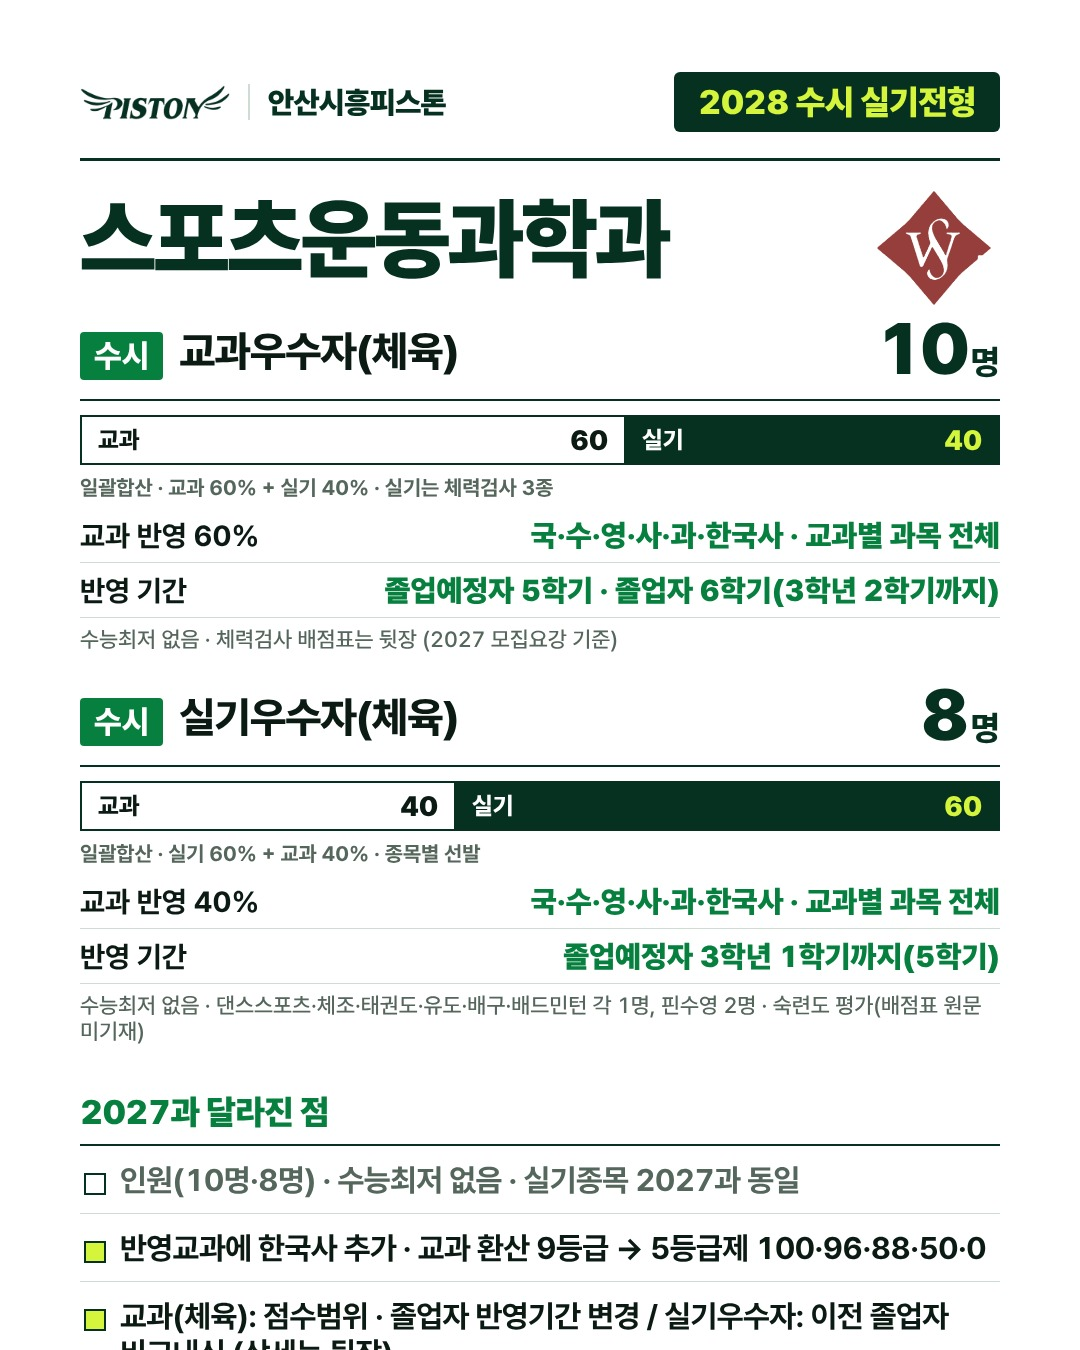
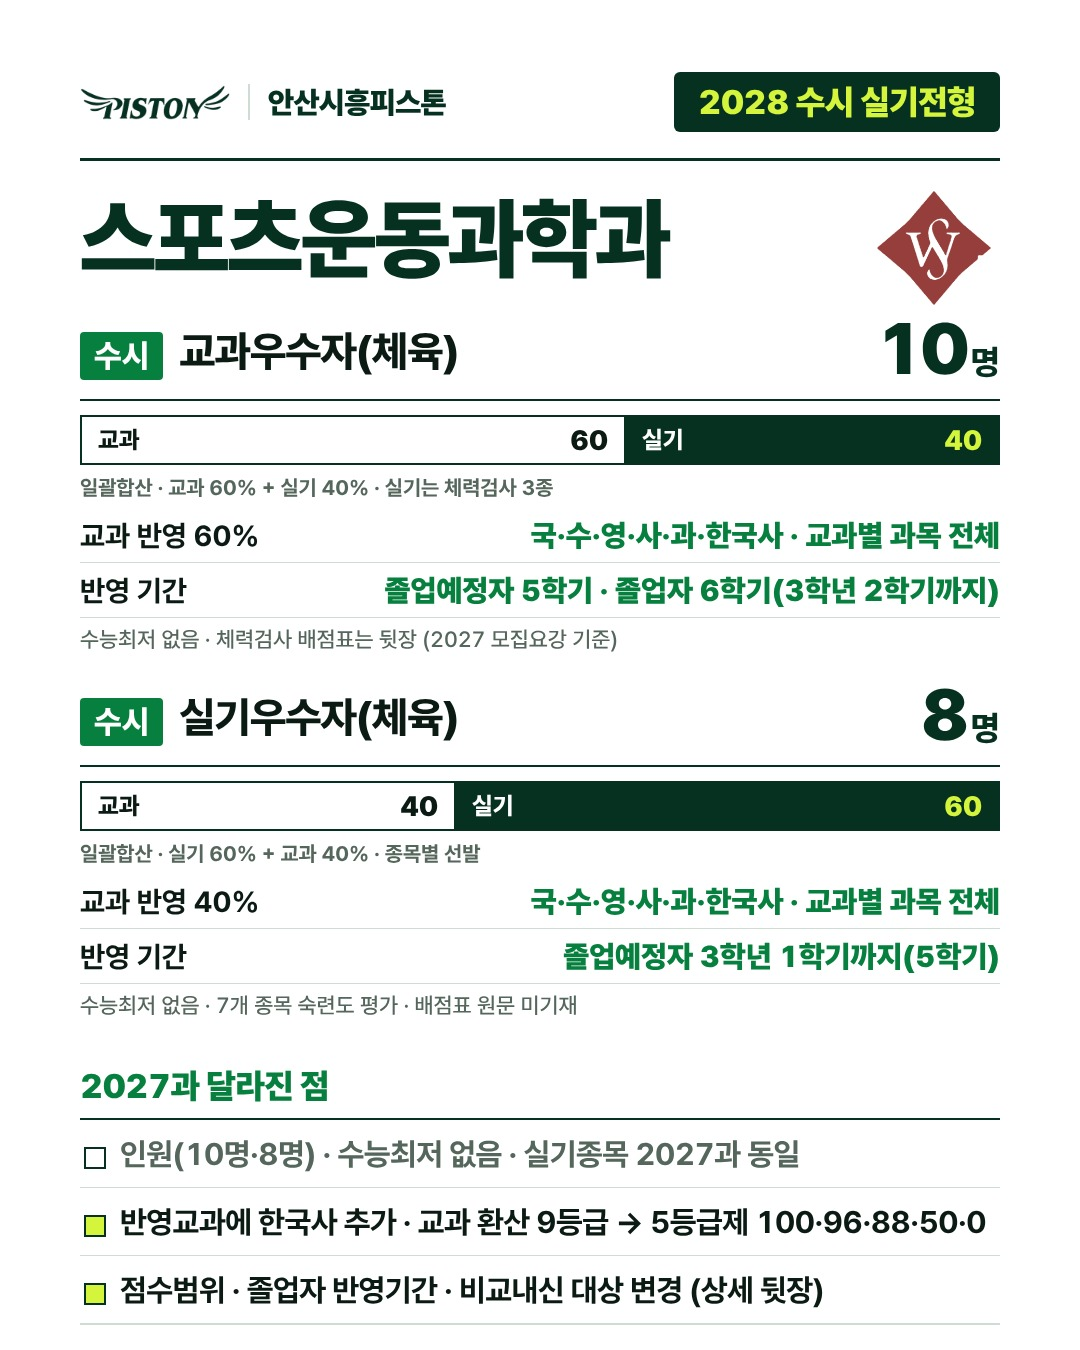
서울여대 작업 중 산출물
Claude-Session: https://claude.ai/code/session_01EGTn7G8nWP1yv5M2jqmoFb

diff --git a/social/out/swu-susi/_tmp.html b/social/out/swu-susi/_tmp.html
@@ -99,9 +99,10 @@ h2{font-weight:900;letter-spacing:-2.5px;color:var(--dk);line-height:1.08}
 .sd p{font-size:27px;font-weight:600;color:var(--mu);margin-top:10px;line-height:1.45}
 .cta{margin-top:auto;background:var(--dk);color:#fff;padding:34px 40px;display:flex;justify-content:space-between;align-items:center;font-size:36px;font-weight:800}
 .cta b{color:var(--lime);font-size:40px}
-.sch{position:absolute;right:80px;top:182px;width:132px;height:132px}.cover .sch{top:215px;width:310px;height:310px}.st .sch{top:250px;width:150px;height:150px}</style></head><body style="--h:1350px"><div class="f end"><div class="top"><div class="brand"><div class="logo"></div><span>안산시흥피스톤</span></div><div class="tag">2028 수시 실기전형</div></div>
-<div class="wm"></div>
-<div class="kk">PISTON</div>
-<h2>체대입시는<br><span class="pb">피스톤</span></h2>
-<div class="sl"><span>같은 성적,</span><span class="lm">다른 결과</span></div>
-<div class="foot"><span>세부 사항은 대학 모집요강으로 최종 확인하세요</span><b>7 / 7</b></div></div></body></html>
+.sch{position:absolute;right:80px;top:182px;width:132px;height:132px}.cover .sch{top:215px;width:310px;height:310px}.st .sch{top:250px;width:150px;height:150px}</style></head><body style="--h:1350px"><div class="f "><div class="top"><div class="brand"><div class="logo"></div><span>안산시흥피스톤</span></div><div class="tag">2028 수시 실기전형</div></div>
+<h2 class="ttl">학폭 감점 · 비교내신</h2><div class="tsub">실기/실적(실기우수자_체육) · 2027 → 2028</div>
+<div class="tcap">학교폭력 조치사항 감점 (2027·2028 동일)</div><table class="tb"><tr><th>조치사항</th><th>1호</th><th>2~3호</th><th>4~6호</th><th>7~9호</th></tr>
+<tr class=""><td class=" c0">감점</td><td class="">없음</td><td class="">총점 -10점</td><td class="">총점 -20점</td><td class="">부적격</td></tr></table><div class="tcap">비교내신 (실기고사 60점 만점 → 비교내신 40점 만점)</div><table class="tb"><tr><th>실기고사 점수</th><th>60</th><th>59~</th><th>58~</th><th>57~</th><th>56~</th><th>54~</th><th>48~</th><th>36~</th><th>0~</th></tr>
+<tr class=""><td class=" c0">비교내신</td><td class="">40</td><td class="">39</td><td class="">38</td><td class="">37</td><td class="">35</td><td class="">33</td><td class="">28</td><td class="">25</td><td class="">0</td></tr></table>
+<ul class="tn"><li>비교내신 대상(2028): 2028.02 이전 졸업자 · 고졸 검정고시 출신 · 교과성적 산출 불가자(해외고교·수우미양가 등) — 실기고사 점수를 활용</li><li>비교내신 점수는 실기고사 점수 구간별(예: 59점 이상~60점 미만 → 39점) 부여 · 2027·2028 구간표 동일</li></ul>
[1 lines of base64/hex data omitted]
